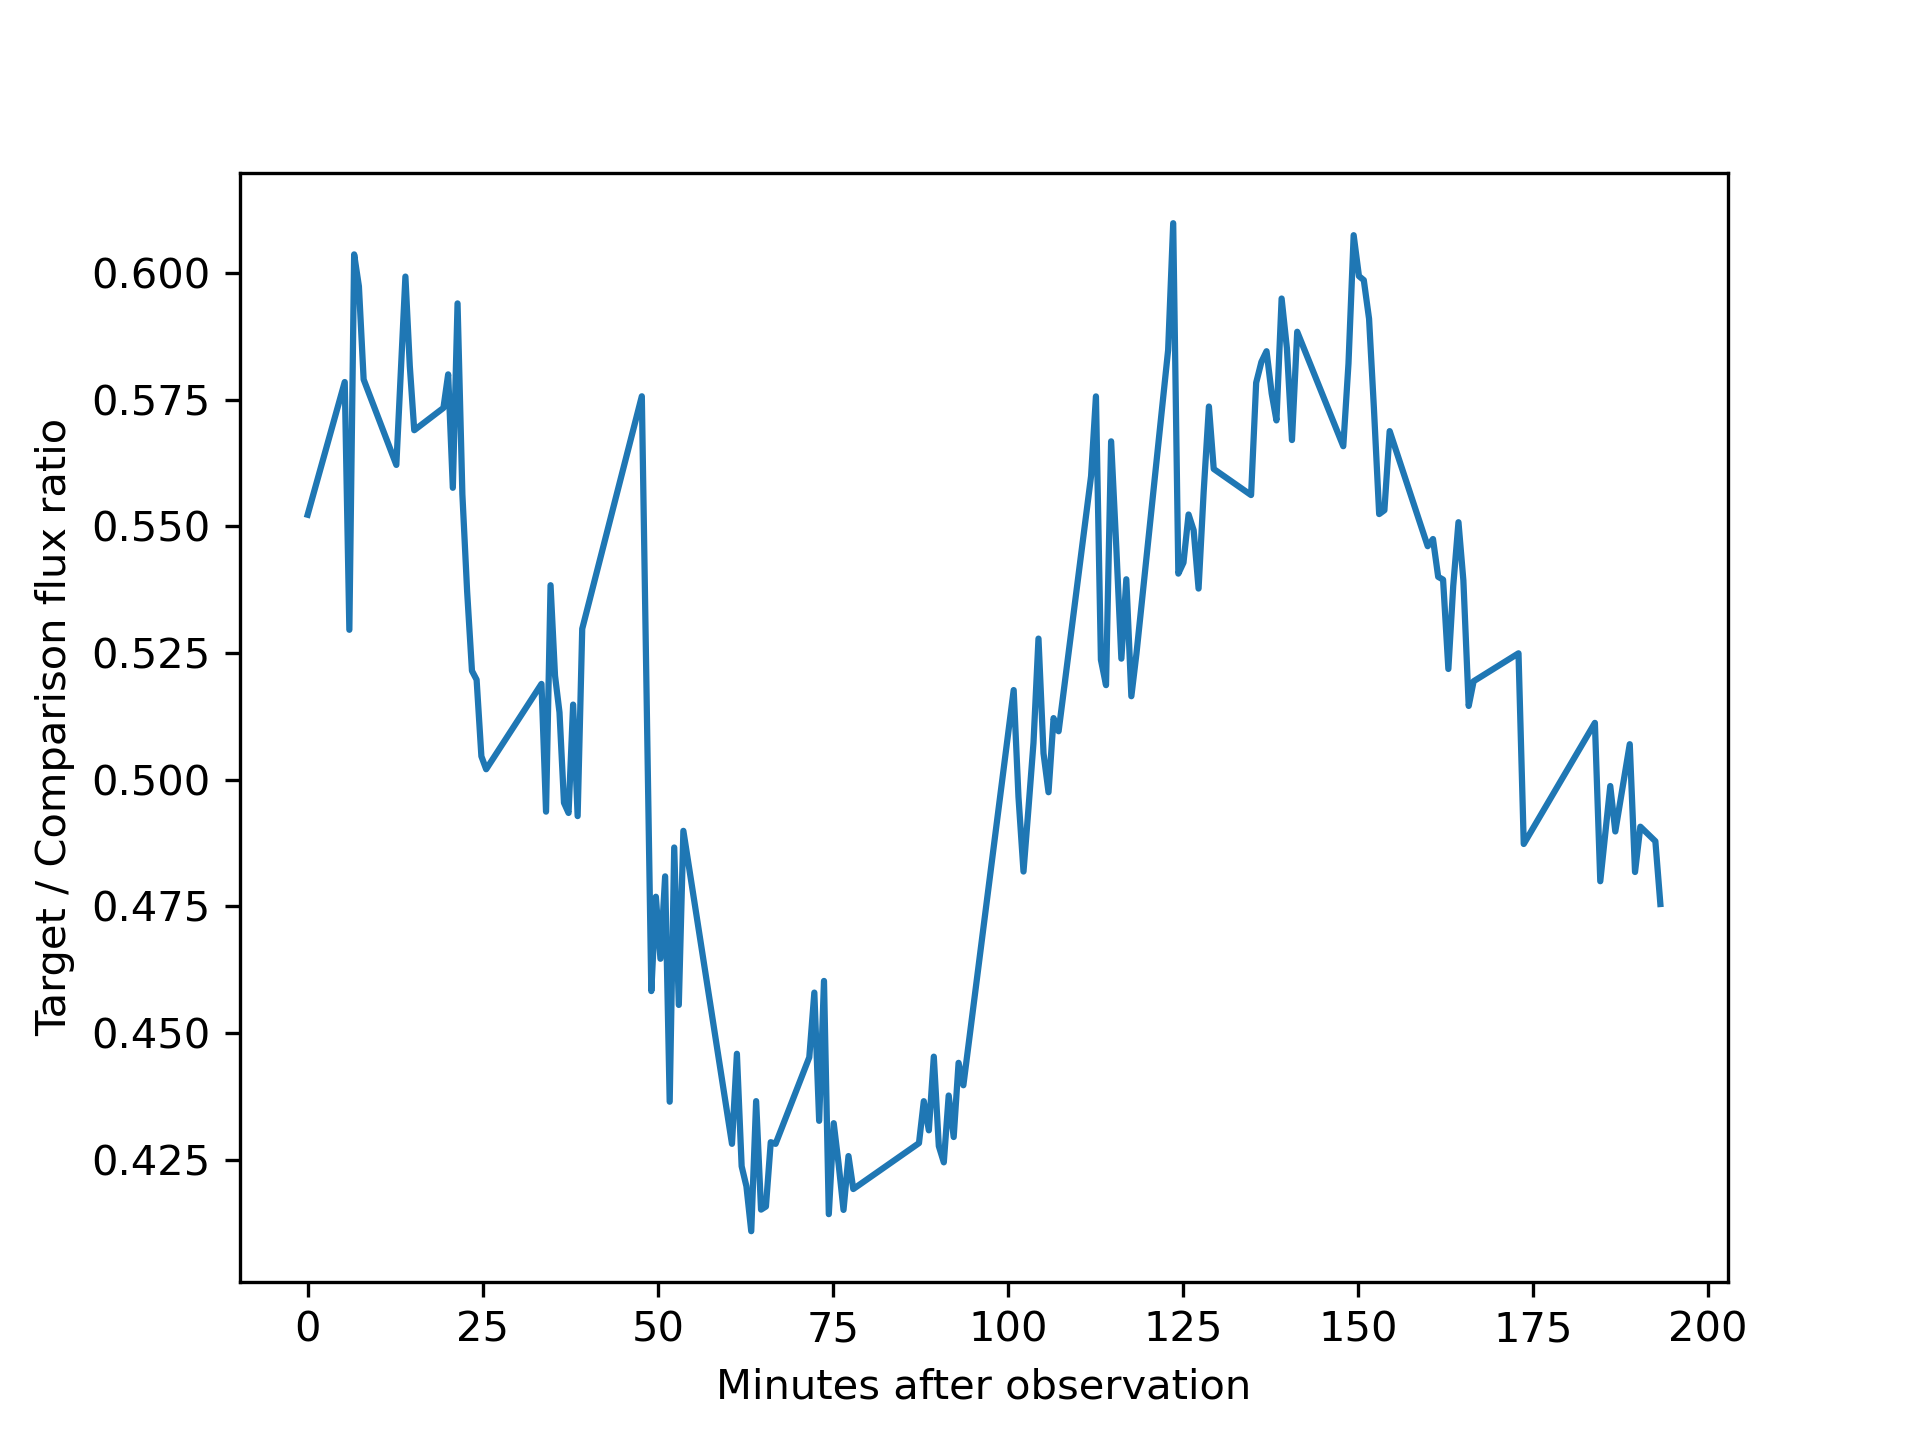
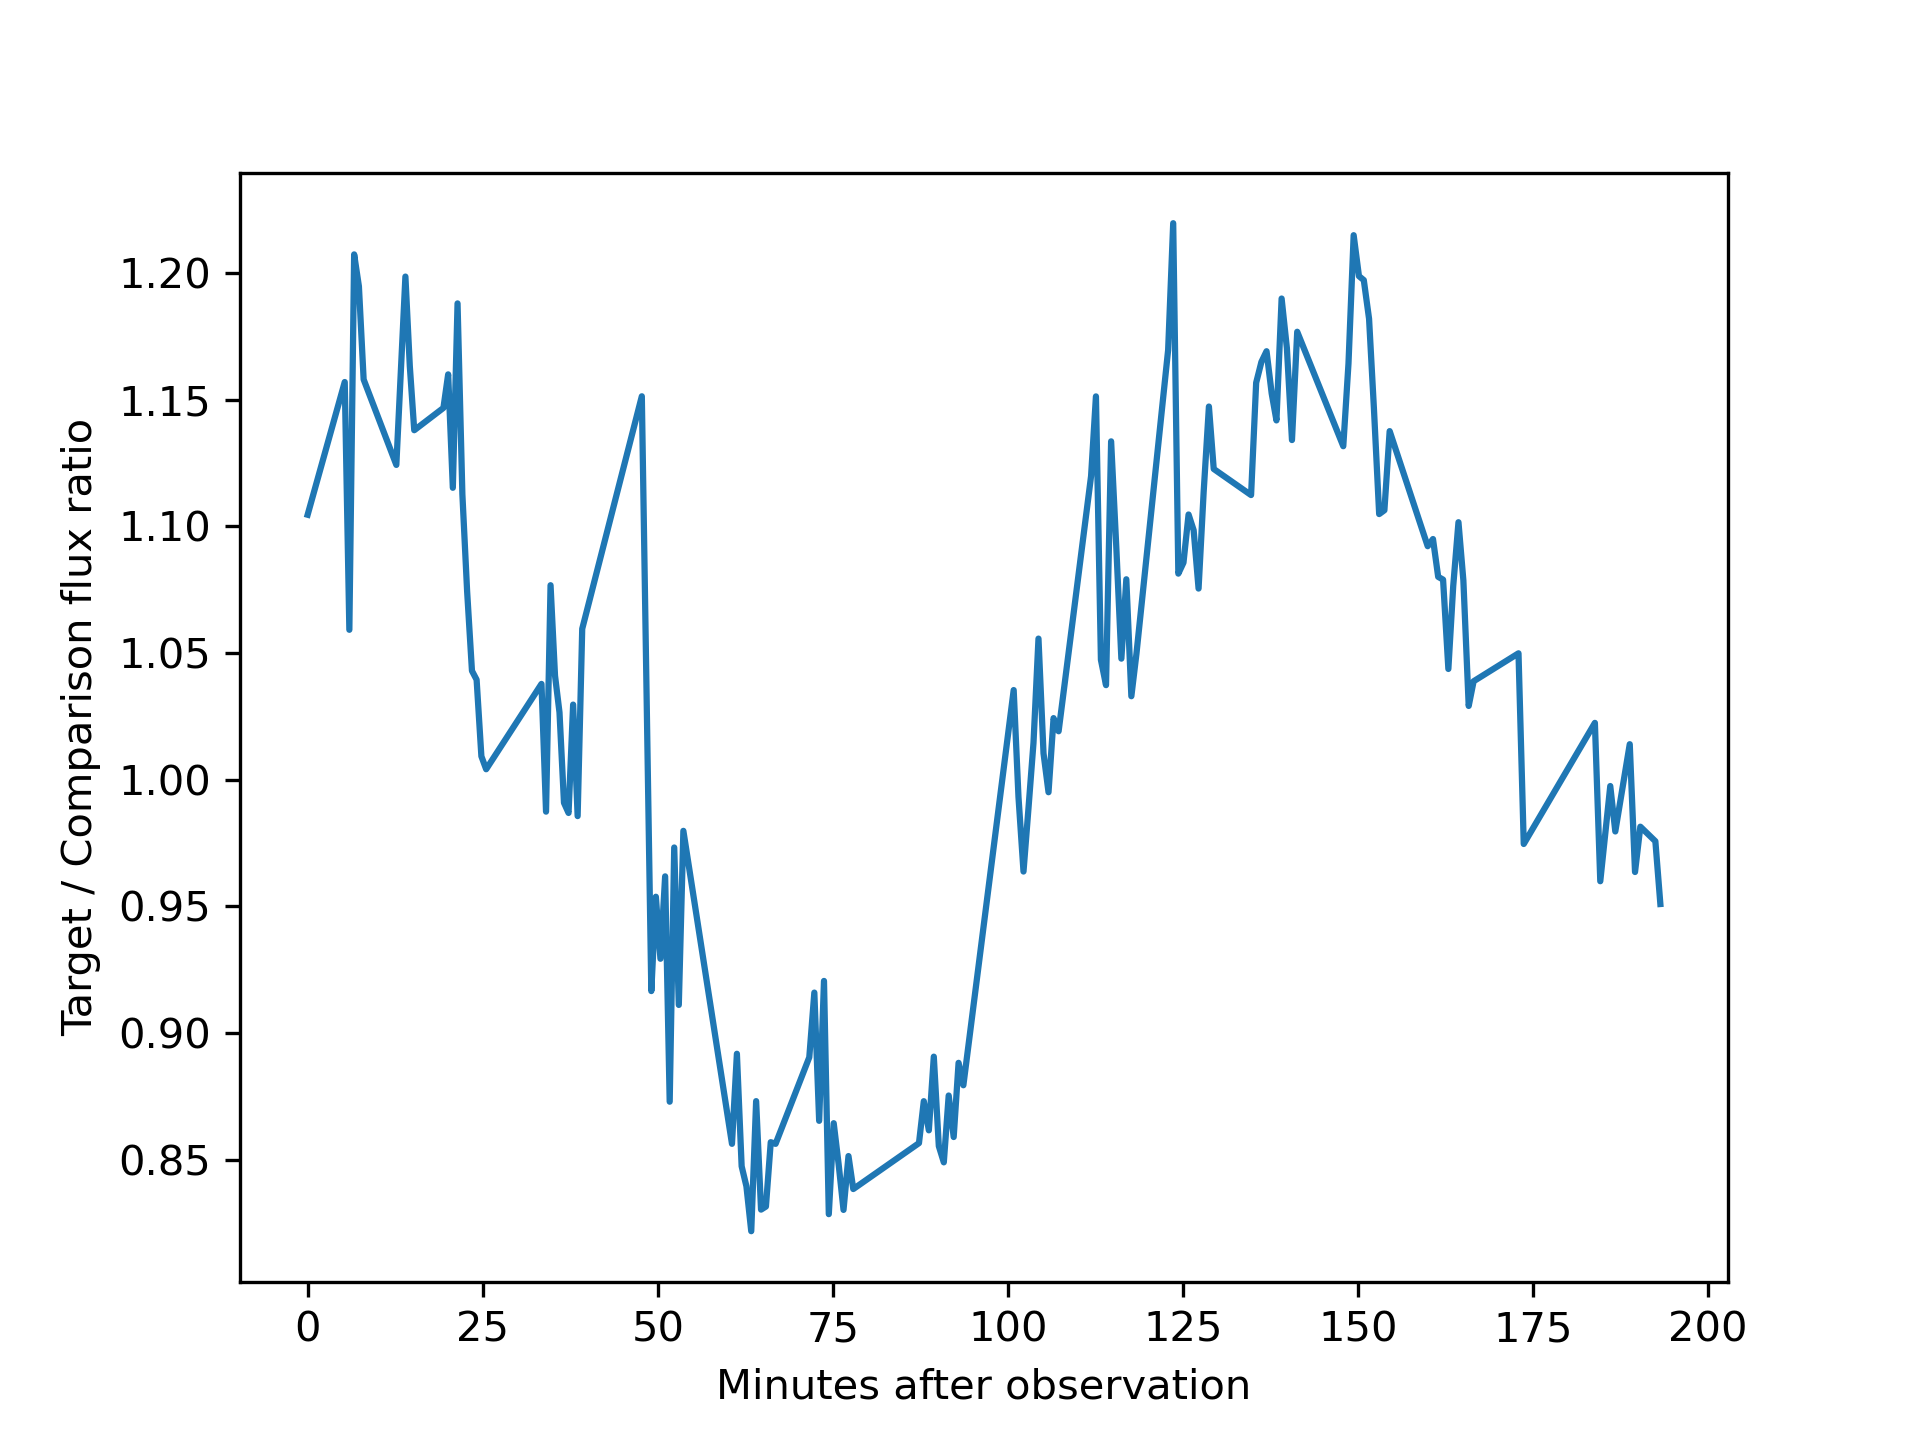
Fixed mean of comparison flux

Changed region(s): [[0.0, 0.25, 0.0938, 0.75], [0.0625, 0.1562, 0.0938, 0.2188], [0.0625, 0.7812, 0.0938, 0.8125]]

diff --git a/src/ccd/diff_light_curve.py b/src/ccd/diff_light_curve.py
@@ -54,7 +54,7 @@ for i in range(0, 143):
 
     # Appends flux of target and mean of two comparison objects to their respective lists
     target_flux.append(aperture_photometry_data[position[0]][1][0])
-    comparison_flux.append(numpy.mean(aperture_photometry_data[position[1]][1][0] + aperture_photometry_data[position[2]][1][0])) 
+    comparison_flux.append(.5 * (aperture_photometry_data[position[1]][1][0] + aperture_photometry_data[position[2]][1][0])) 
 
 ratio = numpy.array(target_flux) / numpy.array(comparison_flux)
 time = (numpy.array(time_stamps) - numpy.min(time_stamps)) * 24 * 60  # Sets time to minutes after first observation
